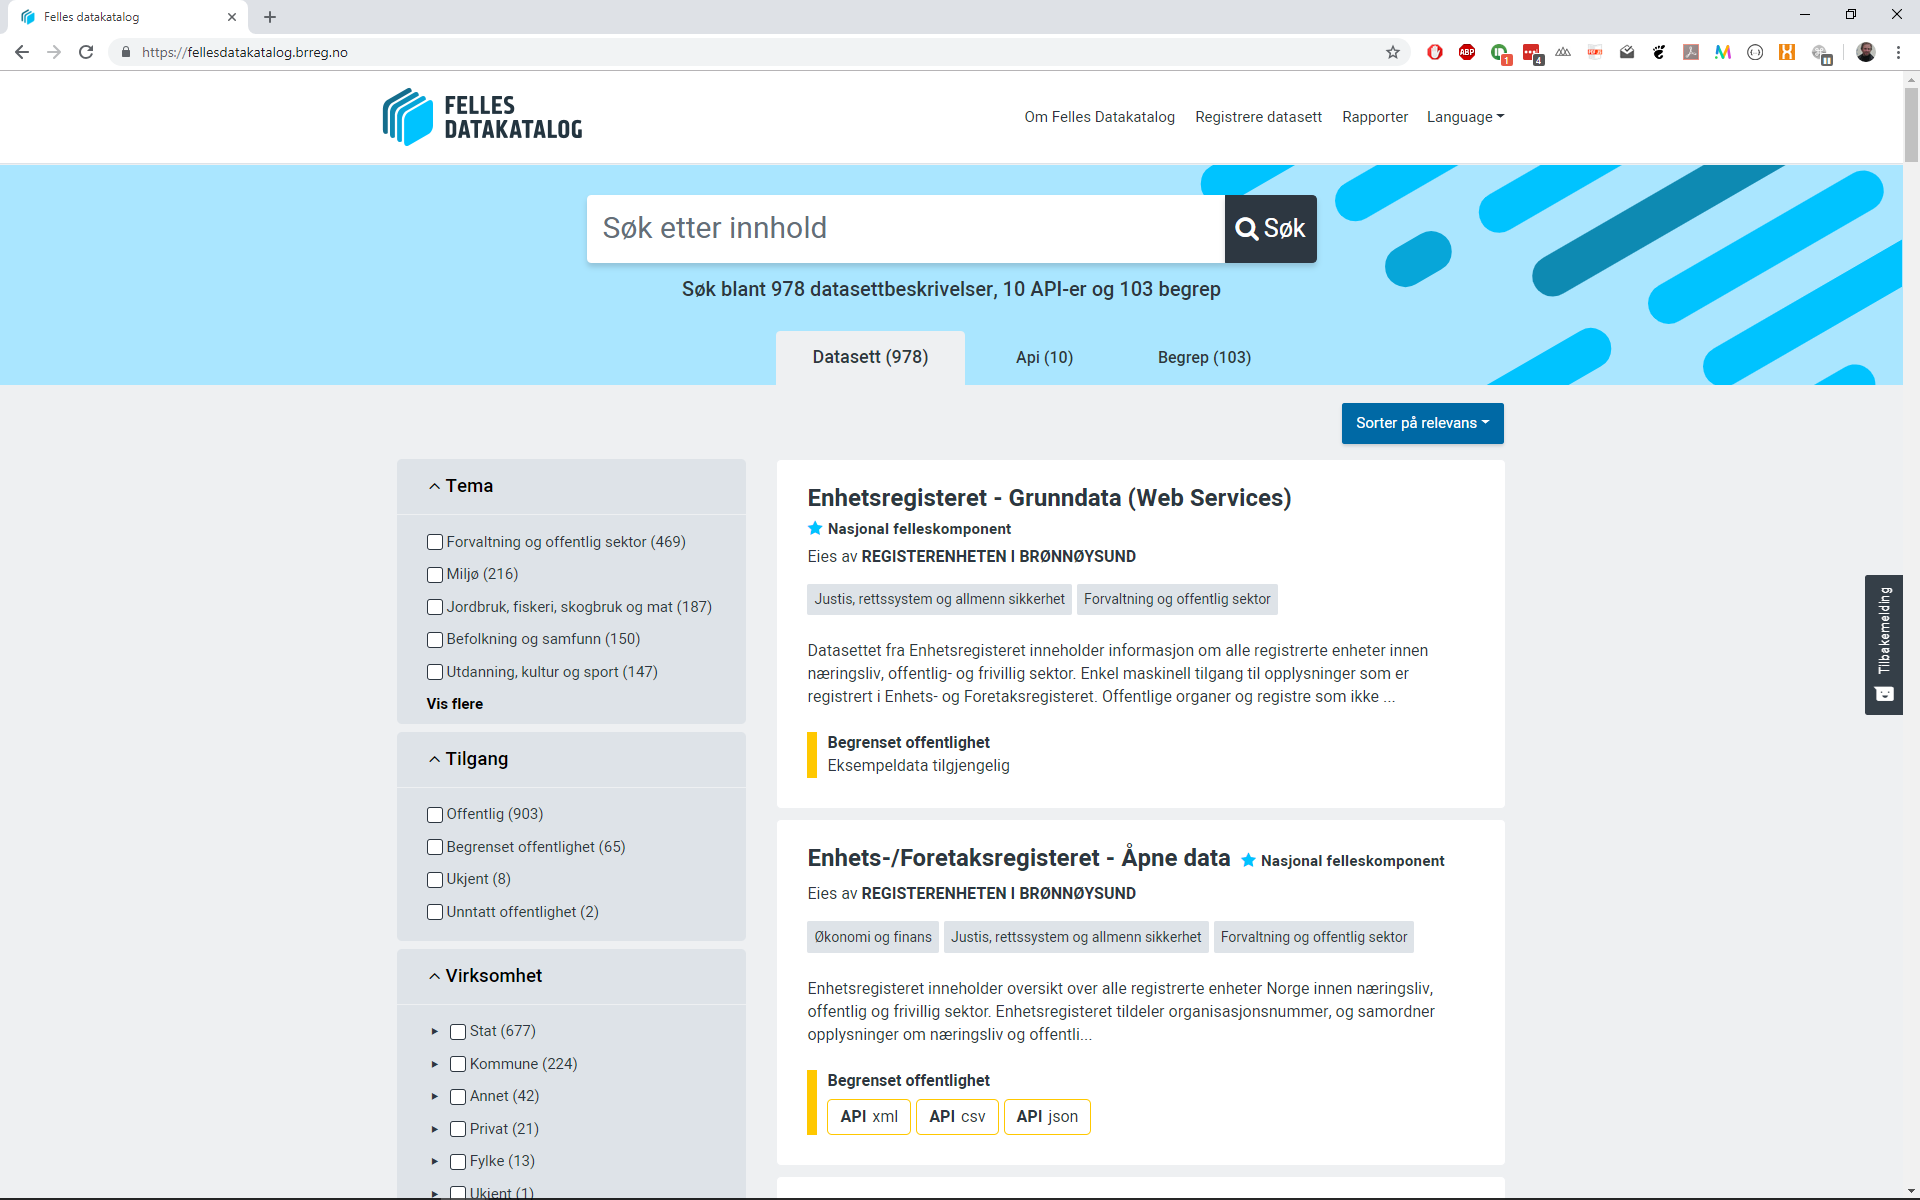
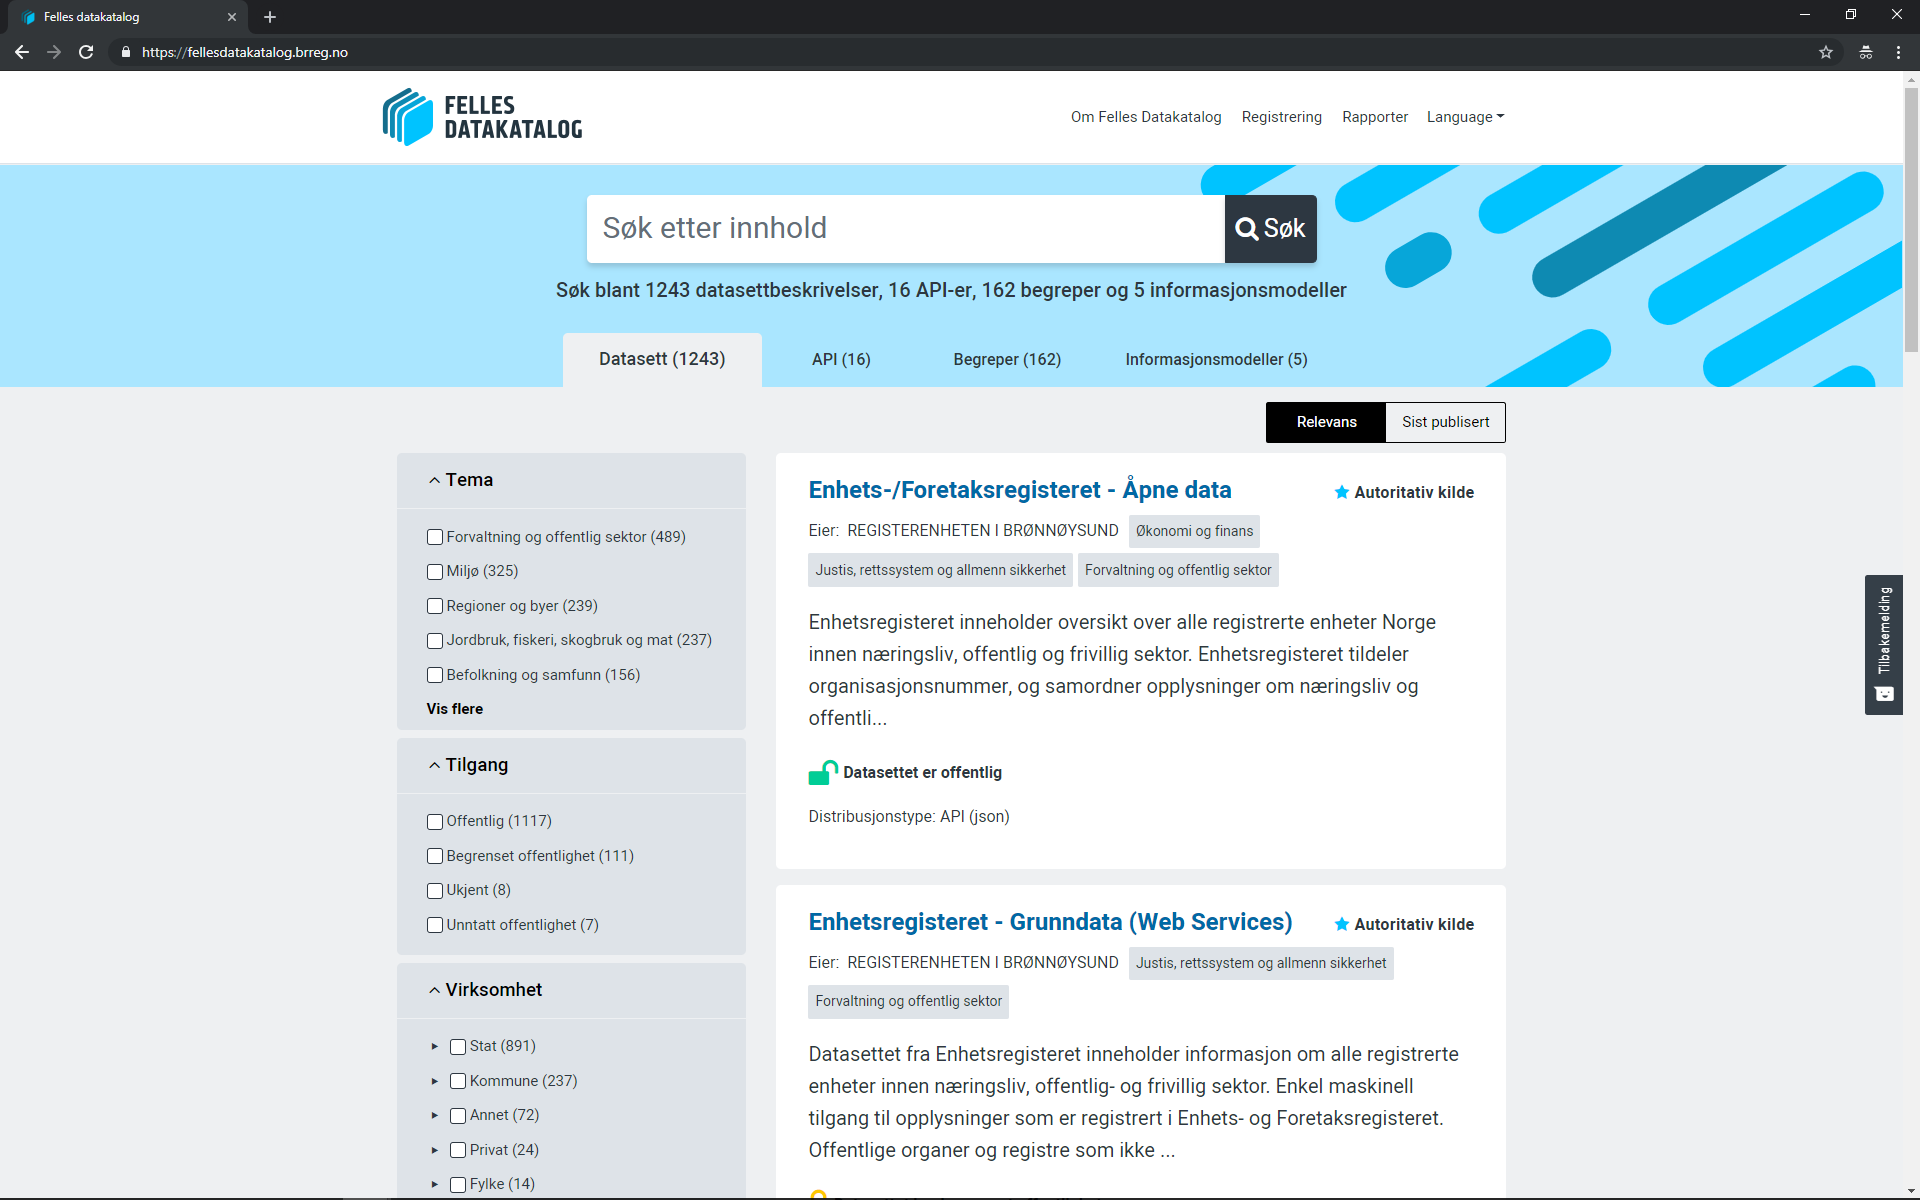
Feature datasettkatalog (#23)
* Initiell versjon av datasett-katalog

* Legger til eksempel på spørring mot API med paginering.

* Initiell versjon av datasett-katalog

* Legger til eksempel på spørring mot API med paginering.

* Initiell versjon av datasett-katalog

* Fixa curl-eksempel

* Flytta tekst til dedikert side om datasett-katalog.

* Gjort første-sida for enkelt-kataloger lik i struktur.
Løser #11 #3

diff --git a/content/Felles datakatalog/_index.md b/content/Felles datakatalog/_index.md
@@ -7,26 +7,18 @@ alwaysopen : true
  src="/images/fdk-logo@2x.png" style="width:320px; display:inline; margin:0; cursor:default;" alt="Felles datakatalog" title="Felles datakatalog" onclick="return false;">&nbsp;
  </img>
 
-<div style="text-align: center"><small>DATASETT - BEGREPER - API</small></div style="text-align: center">
+<div style="text-align: center"><small>DATASETT - BEGREPER - API - INFORMASJONSMODELLER</small></div style="text-align: center">
 
-**Felles Datakatalog** er en løsning som gir oversikt over datasett i offentlig sektor, enten de er offentlige åpne data eller begrenset offentlighet.
+**Felles datakatalog (FDK)** er en løsning som gir oversikt over datasett, begreper, API og informasjonsmodeller (og sammenhenger mellom disse) i offentlig sektor.
 
-Felles Datakatalog adresserer behovet for å *oppdage* datasett, *evaluere* om datasettene kan benyttes i den aktuelle konteksten og *tilgang* til datasett gjennom API-er.
-
-### Hvor hentes datasettbeskrivelser fra?
-FDK høster beskrivelser fra andre datakataloger, herunder geonorge.no, data.norge.no og vegvesenes katalog over åpne data. I tillegg tilbys en registreringsløsning.
-
-### Hvordan registerer jeg mine datasett?
-Felles datakatalog inneholder en registreringsløsning som alle offentlige virksomheter kan benytte. Private virksomheter oppfordres til å ta kontakt for å registrere sine datasett.
+I menyen til venstre kan du finne informasjon om de ulike katalogene.
 <img src="./FDK_skjermbilde.png" width="40%" alt="Felles datakatalog bilde" align=right >
 
-### Hva er planer for løsningen videre?
-Løsningen utvides i 2018 til å inkludere vurdering av *tilgang* til data gjennom en [API-katalog](/felles-datakatalog/api-katalog).
-
-Felles datakatalog inkluderer også oversikt over Begreper. Dette omtales som begrepskatalog.
+### Hvor finner jeg felles datakatalog?
+Her finner du <a href="https://fellesdatakatalog.brreg.no" target="_blank">Felles datakatalog</a>
 
 ### Har dere statistikk på bruk?
 Ja, se her for [statistikk](statistikk) over innhold og bruk av felles datakatalog.
 
-### Hvor finner jeg felles datakatalog?
-Her finner du <a href="https://fellesdatakatalog.brreg.no" target="_blank">Felles datakatalog</a>
+### Hva er planer for løsningen videre?
+Ved å følge vår åpne behovsprosess vil du finne ut alt om våre neste leveranser. Se [Behovsprosessen](../behovsprosessen/).

diff --git a/content/Felles datakatalog/Begrepskatalog/_index.md b/content/Felles datakatalog/Begrepskatalog/_index.md
@@ -1,8 +1,15 @@
 ---
 title: Begrepskatalog
-weight: 4
+weight: 5
 ---
 
-Felles begrepskatalog utvikles i 2018 som en utvidelse av Felles datakatalog for å skape en oversikt over dataenes *betydning*. Det er ikke en forutsetning at begrepene i Felles begrepskatalog er koblet til datasett, men denne koblingen skal gjøres der det er hensiktsmessig. Med dette åpner vi også for at begrepslister som ikke har et motsvar i datasett kan publiseres i Felles begrepskatalog.  
+Felles begrepskatalog ble utviklet i 2018 som en utvidelse av Felles datakatalog for å skape en oversikt over dataenes *betydning*. Det er ikke en forutsetning at begrepene i Felles begrepskatalog er koblet til datasett, men denne koblingen skal gjøres der det er hensiktsmessig. Med dette åpner vi også for at begrepslister som ikke har et motsvar i datasett kan publiseres i Felles begrepskatalog.
 
-Her finner du [begrepskatalogen] (https://fellesdatakatalog.brreg.no/concepts)
+### Hvor hentes begreps-beskrivelser fra?
+FDK høster beskrivelser fra andre begrepskataloger. I tillegg tilbys en registreringsløsning.
+
+### Hvordan registerer jeg mine begrep?
+Felles datasettkatalog inneholder en <a href="https://fellesdatakatalog.brreg.no/about-registration" target="_blank">registreringsløsning</a> som alle offentlige virksomheter kan benytte. Private virksomheter oppfordres til å ta kontakt for å registrere sine begreper.
+
+### Hvor finner jeg felles begrepskatalog?
+Her finner du <a href="https://fellesdatakatalog.brreg.no/concepts" target="_blank">Begrepskatalogen</a>.

diff --git a/content/Felles datakatalog/Datasett-katalog/API/_index.md b/content/Felles datakatalog/Datasett-katalog/API/_index.md
@@ -1,0 +1,29 @@
+---
+title: API
+weight: 2
+---
+Her følger en kort beskrivelse datasett-katalogens API, samt eksempel på bruk med [curl](https://curl.haxx.se/).
+## Detaljer
+* Server: `https://fellesdatakatalog.brreg.no`
+* Tilbyr: `application/json`
+
+| <a href="https://fellesdatakatalog.brreg.no/apis/bff198ab-faef-4b31-89b2-348a0bf1336e" target="_blank"><u>Oppføring i API-katalogen</u></a> | <a href="https://raw.githubusercontent.com/brreg/openAPI/master/specs/fdk.json" target="_blank"><u>Lenke direkte til spesifikasjon (openAPI v3)</u></a> |
+| --------------- | --------- |
+
+## Eksempel på spørringer
+Alle datasett:
+```
+curl -H "Accept: application/json" https://fellesdatakatalog.brreg.no/api/datasets
+```
+Alle datasett med "paginering", returnerer første side:
+```
+curl -H "Accept: application/json" 'https://fellesdatakatalog.brreg.no/api/datasets?page=0'
+```
+Et spesifikt datasett basert på id:
+```
+curl -H "Accept: application/json" https://fellesdatakatalog.brreg.no/api/datasets/<id>
+```
+En  enkelt søk etter datasett med ordet "barnehage":
+```
+curl -H "Accept: application/json" https://fellesdatakatalog.brreg.no/api/datasets?q=barnehage
+```

diff --git a/content/Felles datakatalog/Informasjonsmodell-katalog/_index.md b/content/Felles datakatalog/Informasjonsmodell-katalog/_index.md
@@ -1,8 +1,15 @@
 ---
 title: Informasjonsmodell-katalog
-weight: 5
+weight: 6
 ---
 
 Felles informasjonsmodell-katalog er en utvidelse av Felles datakatalog for å skape en oversikt over informasjonsmodeller. I katalogen finner man også hvilke API'er informasjonsmodellene tilhører.
 
+### Hvor hentes informasjonsmodellene fra?
+I dag hentes informasjonsmodellen fra spesifikasjonen til APIer i API-katalogen. Spesifikt hentes modellene uta av spesifikasjonens <a href="https://github.com/OAI/OpenAPI-Specification/blob/master/versions/3.0.2.md#schemaObject" target="_blank">Schema Object</a>. I tillegg høster FDK fra andre informasjonsmodell-kataloger.
+
+### Hvordan registerer jeg mine informasjonsmodeller?
+Foreløpig har vi ingen løsning for å registrere informasjonsmodeller i vår løsning.
+
+### Hvor finner jeg felles informasjonsmodell-katalog?
 Her finner du <a href="https://fellesdatakatalog.brreg.no/informationmodels" target="_blank">Informasjonsmodell-katalogen</a>.

diff --git a/content/Felles datakatalog/API-katalog/_index.md b/content/Felles datakatalog/API-katalog/_index.md
@@ -1,8 +1,15 @@
 ---
 title: API-katalog
-weight: 3
+weight: 4
 ---
 
-Felles API-katalog utvikles i 2018 som en utvidelse av Felles datakatalog for å skape en oversikt over *tilgang* til data.
+Felles API-katalog ble utviklet i 2018 som en utvidelse av Felles datakatalog for å skape en oversikt over *tilgang* til data.
 
-Her finner du [API-katalogen] (https://fellesdatakatalog.brreg.no/apis)
+### Hvor hentes API-beskrivelser fra?
+FDK høster beskrivelser fra andre API-kataloger. I tillegg tilbys en registreringsløsning.
+
+### Hvordan registerer jeg mine API?
+Felles datasettkatalog inneholder en <a href="https://fellesdatakatalog.brreg.no/about-registration" target="_blank">registreringsløsning</a> som alle offentlige virksomheter kan benytte. Private virksomheter oppfordres til å ta kontakt for å registrere sine API.
+
+### Hvor finner jeg felles API-katalog?
+Her finner du <a href="https://fellesdatakatalog.brreg.no/apis" target="_blank">API-katalogen</a>.

diff --git a/content/Felles datakatalog/Datasett-katalog/_index.md b/content/Felles datakatalog/Datasett-katalog/_index.md
@@ -1,0 +1,15 @@
+---
+title: Datasett-katalog
+weight: 3
+---
+
+Felles Datasettkatalog er en løsning som gir oversikt over datasett i offentlig sektor, enten de er offentlige åpne data eller begrenset offentlighet. Katalogen adresserer behovet for å *oppdage* datasett, *evaluere* om datasettene kan benyttes i den aktuelle konteksten og *tilgang* til datasett gjennom API-er.
+
+### Hvor hentes datasettbeskrivelser fra?
+FDK høster beskrivelser fra andre datakataloger, herunder geonorge.no, data.norge.no og vegvesenes katalog over åpne data. I tillegg tilbys en registreringsløsning.
+
+### Hvordan registerer jeg mine datasett?
+Felles datasettkatalog inneholder en registreringsløsning som alle offentlige virksomheter kan benytte. Private virksomheter oppfordres til å ta kontakt for å registrere sine datasett.
+
+### Hvor finner jeg felles datasettkatalog?
+Her finner du <a href="https://fellesdatakatalog.brreg.no" target="_blank">Felles datasettkatalog</a>

diff --git a/content/Felles datakatalog/Overordnet arkitektur/_index.md b/content/Felles datakatalog/Overordnet arkitektur/_index.md
@@ -1,6 +1,6 @@
 ---
 title: Overordnet arkitektur
-weight: 1
+weight: 2
 ---
 
 Her følger en kort oversikt over den overordnede arkitekturen til våre komponenter.
